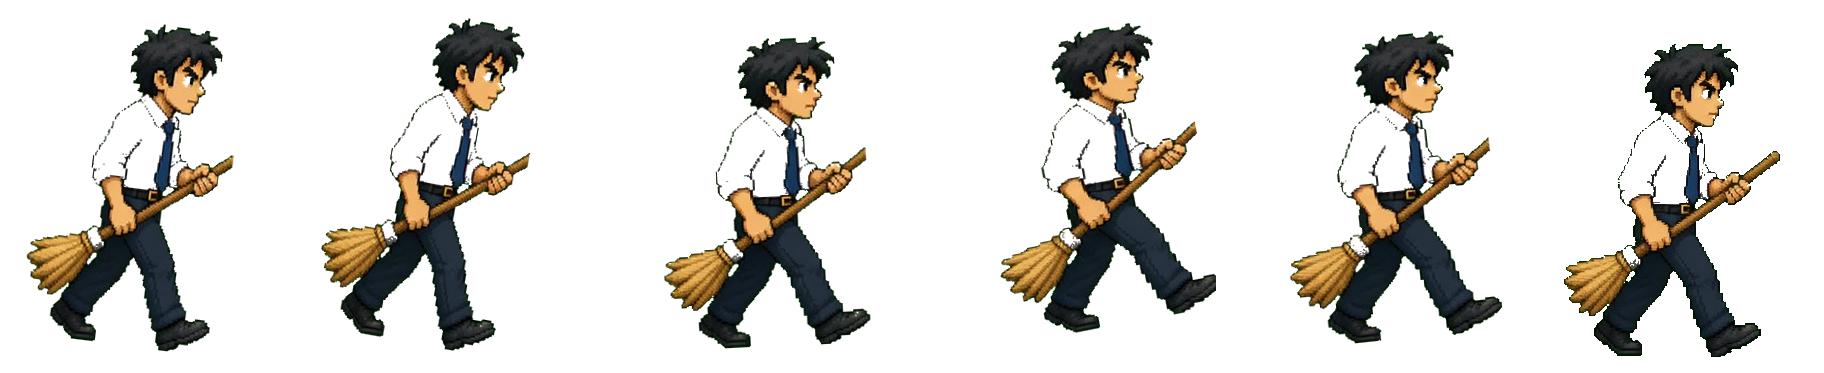
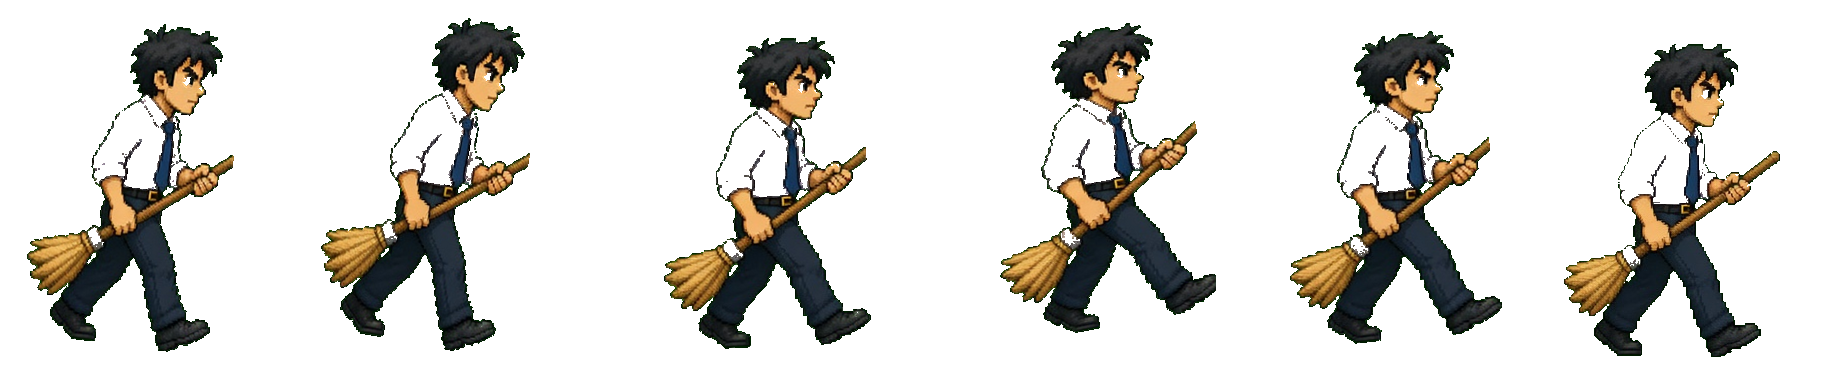
fix: kill halo tint rectangle, remove yellow ring, add spawn jitter, smooth scaling

diff --git a/src/js/render.js b/src/js/render.js
@@ -421,7 +421,8 @@ function drawBase(ctx, x, groundY, civId, team, hpRatio, scale, player) {
 // 单位
 // ==================================================================
 function drawUnit(ctx, u, tShow) {
-  const { cx, cy } = toCanvas(u.x, 0, u.row || 0);
+  // 出生 y 抖动通过 u.y 传入，视觉上给一点上下错开
+  const { cx, cy } = toCanvas(u.x, u.y || 0, u.row || 0);
   const rowMul = scaleForRow(u.row || 0);
   const dir = u.dir;
   const H = heightForUnit(u) * rowMul;
@@ -494,24 +495,18 @@ function drawUnit(ctx, u, tShow) {
     const flipX = dir !== +1;
     if (flipX) ctx.scale(-1, 1);
 
-    // 像素完美关闭平滑
+    // 绘制的是彩绘素材（非 pixel art），开启高质量平滑，避免"像素块粒子"
     const prevSmooth = ctx.imageSmoothingEnabled;
-    ctx.imageSmoothingEnabled = false;
+    const prevQuality = ctx.imageSmoothingQuality;
+    ctx.imageSmoothingEnabled = true;
+    ctx.imageSmoothingQuality = "high";
 
     // 主体
     ctx.drawImage(anim.img,
       frame * anim.fw, 0, anim.fw, anim.fh,   // src rect
       -W / 2, -targetH, W, targetH);          // dst rect
 
-    // 文明染色：source-atop 叠加，只覆盖有像素的地方
-    const tint = CIV_TINT[u.civId];
-    if (tint) {
-      ctx.globalCompositeOperation = "source-atop";
-      ctx.fillStyle = tint;
-      ctx.fillRect(-W / 2, -targetH, W, targetH);
-      ctx.globalCompositeOperation = "source-over";
-    }
-    // 魅惑覆盖
+    // 魅惑覆盖（只在被魅惑时短暂使用）
     if (u.charmedBy) {
       ctx.globalCompositeOperation = "source-atop";
       ctx.fillStyle = "rgba(220,90,220,0.30)";
@@ -520,6 +515,7 @@ function drawUnit(ctx, u, tShow) {
     }
 
     ctx.imageSmoothingEnabled = prevSmooth;
+    ctx.imageSmoothingQuality = prevQuality;
   } else {
     // 兜底：老静态图
     const imgKey = imgForUnit(u);
@@ -807,14 +803,16 @@ function render(ctx, snap, tShow, meSeat) {
   // 全屏效果（大招 / 爆炸 / 火团 / 火花）
   snap.effects.forEach(e => drawEffect(ctx, e, tShow));
 
-  // 我方单位金圈
+  // 我方单位归属提示：脚下一个小圆点（比黄圈低调很多，不遮挡人物）
   if (meSeat != null) {
+    ctx.fillStyle = "rgba(255,222,102,0.85)";
+    ctx.strokeStyle = "rgba(60,40,10,0.9)"; ctx.lineWidth = 1;
     snap.units.forEach(u => {
       if (u.seat === meSeat) {
-        const { cx, cy } = toCanvas(u.x, 0, u.row || 0);
-        const H = heightForUnit(u) * scaleForRow(u.row || 0);
-        ctx.strokeStyle = "#ffde66"; ctx.lineWidth = 2;
-        ctx.beginPath(); ctx.arc(cx, cy - H * 0.5, H * 0.5 + 4, 0, Math.PI * 2); ctx.stroke();
+        const { cx, cy } = toCanvas(u.x, u.y || 0, u.row || 0);
+        ctx.beginPath();
+        ctx.ellipse(cx, cy + 3, 5, 2, 0, 0, Math.PI * 2);
+        ctx.fill(); ctx.stroke();
       }
     });
   }

diff --git a/src/js/sim.js b/src/js/sim.js
@@ -297,8 +297,12 @@ function spawnUnit(state, p, unitId, opt) {
   const civ = CIVS[p.civId];
   const def = civ.units[unitId];
   if (!def) return null;
-  opt = opt || {};
+  opt = opt != null ? opt : {};
   const isHK = p.team === "hk";
+  // 出生位置抖动（确定性 RNG，联机同步安全）：避免所有兵在完全同一点叠罗汉
+  const spawnRng = makeRng((state.nextUnitId | 0) * 2654435761 + p.seat * 977 + (state.seed | 0));
+  const jitterX = (spawnRng() - 0.5) * 26;   // ±13 px
+  const jitterY = (spawnRng() - 0.5) * 22;   // ±11 px
   const u = {
     id: state.nextUnitId++,
     seat: p.seat,
@@ -306,8 +310,8 @@ function spawnUnit(state, p, unitId, opt) {
     civId: p.civId,
     unitId,
     def,
-    x: opt.x != null ? opt.x : (isHK ? HQ_HK_X + 20 : HQ_ZOM_X - 20),
-    y: opt.y != null ? opt.y : (p.row * 60),
+    x: opt.x != null ? opt.x : (isHK ? HQ_HK_X + 20 + jitterX : HQ_ZOM_X - 20 + jitterX),
+    y: opt.y != null ? opt.y : (p.row * 60 + jitterY),
     row: p.row,
     dir: isHK ? +1 : -1,
     hp: def.hp,

diff --git a/src/index.html b/src/index.html
@@ -147,12 +147,12 @@
   <script src="/static/gamehub-matches.js"></script>
 
   <!-- 游戏 -->
-  <script src="js/assets.js?v=8"></script>
+  <script src="js/assets.js?v=9"></script>
   <script src="js/civs.js?v=6"></script>
   <script src="js/audio.js?v=3"></script>
-  <script src="js/sim.js?v=6"></script>
+  <script src="js/sim.js?v=9"></script>
   <script src="js/ai.js?v=3"></script>
-  <script src="js/render.js?v=8"></script>
+  <script src="js/render.js?v=9"></script>
   <script src="js/input.js?v=3"></script>
   <script src="js/net.js?v=3"></script>
   <script src="js/stats.js?v=3"></script>

diff --git a/src/js/assets.js b/src/js/assets.js
@@ -67,7 +67,7 @@ function loadAssets(onProgress) {
       resolve();
     };
     img.onerror = () => { console.warn("[assets] missing anim:", spec.path); tick(spec.key); resolve(); };
-    img.src = spec.path + "?v=3";
+    img.src = spec.path + "?v=4";
   });
 
   return Promise.all([

diff --git a/_amplify_anim.py b/_amplify_anim.py
@@ -1,12 +1,18 @@
-"""Turn the generated pose strips into readable walk and attack cycles.
+"""Turn the clean per-frame strips (from _process_sheets.py) into visible
+walk + attack cycles with hard-edge alpha (no soft halo → no tint rectangle).
 
-The image model kept character identity well, but produced poses that were too
-similar. This pass preserves those painted frames and adds strong key-pose
-changes (weight shift, body lean, squash and lunge) that remain visible after
-the sprites are scaled down in game.
+Pipeline per action:
+  1. Read source strip (must be re-generated fresh via _process_sheets.py).
+  2. Per frame apply pose transform (scale/rotate/translate).
+  3. Snap soft alpha < 40 → 0, then zero RGB where alpha == 0.
+  4. Re-pack into horizontal strip.
+
+IMPORTANT: this script overwrites the walk sheet.
+Always run _process_sheets.py first, then this.
 """
 from pathlib import Path
 
+import numpy as np
 from PIL import Image
 
 
@@ -14,22 +20,13 @@ ROOT = Path(r"e:\Project\WebGame\HKVSZombie")
 ANIM = ROOT / "src" / "img" / "anim"
 
 KEYS = [
-    "hk_melee_cheap",
-    "hk_melee_tank",
-    "hk_melee_fast",
-    "hk_ranged_light",
-    "hk_ranged_aoe",
-    "hk_ranged_heavy",
-    "hk_support",
-    "zom_normal",
-    "zom_hopper",
-    "zom_banshee",
-    "zom_giant",
-    "zom_cata",
-    "zom_toxic",
-    "zom_ghost",
+    "hk_melee_cheap", "hk_melee_tank", "hk_melee_fast",
+    "hk_ranged_light", "hk_ranged_aoe", "hk_ranged_heavy", "hk_support",
+    "zom_normal", "zom_hopper", "zom_banshee", "zom_giant",
+    "zom_cata", "zom_toxic", "zom_ghost",
 ]
 
+# (rotate_deg, offset_x, offset_y, scale_x, scale_y)
 # Six deliberately different contact/down/passing/up poses.
 WALK = [
     (-4.0, -7,  0, 1.05, 0.98),
@@ -63,6 +60,21 @@ RANGED = {
     "zom_banshee", "zom_cata", "zom_toxic", "zom_ghost",
 }
 
+# Alpha threshold: anything below this is snapped to 0 (kills fringe halo).
+ALPHA_MIN = 40
+
+
+def clean_alpha(img):
+    """Snap soft alpha < ALPHA_MIN to 0, zero out RGB there. Returns PIL RGBA."""
+    arr = np.array(img.convert("RGBA"))
+    a = arr[:, :, 3]
+    weak = a < ALPHA_MIN
+    arr[weak] = [0, 0, 0, 0]
+    # Also clamp mid-range alpha up towards fully opaque to preserve edges.
+    mid = (a >= ALPHA_MIN) & (a < 200)
+    arr[mid, 3] = 255
+    return Image.fromarray(arr)
+
 
 def transform(frame, pose, out_w, out_h):
     angle, dx, dy, sx, sy = pose
@@ -70,6 +82,7 @@ def transform(frame, pose, out_w, out_h):
     h = max(1, round(frame.height * sy))
     shaped = frame.resize((w, h), Image.Resampling.BICUBIC)
     shaped = shaped.rotate(angle, Image.Resampling.BICUBIC, expand=True)
+    shaped = clean_alpha(shaped)  # kill halo introduced by bicubic
     canvas = Image.new("RGBA", (out_w, out_h), (0, 0, 0, 0))
     x = (out_w - shaped.width) // 2 + dx
     y = out_h - shaped.height - 18 + dy
@@ -84,14 +97,22 @@ def make_cycle(source, poses):
            for i in range(frames)]
     out_w = fw + 80
     out_h = source.height + 50
-    cooked = [
-        transform(raw[i], poses[i], out_w, out_h)
-        for i in range(frames)
-    ]
+    cooked = [transform(raw[i], poses[i], out_w, out_h) for i in range(frames)]
     strip = Image.new("RGBA", (out_w * frames, out_h), (0, 0, 0, 0))
     for i, frame in enumerate(cooked):
         strip.alpha_composite(frame, (i * out_w, 0))
+    # Final alpha cleanup
+    strip = clean_alpha(strip)
     return strip
+
+
+def report_alpha(img, label):
+    arr = np.array(img)
+    a = arr[:, :, 3]
+    total = a.size
+    weak = int(((a > 0) & (a < ALPHA_MIN)).sum())
+    mid = int(((a >= ALPHA_MIN) & (a < 200)).sum())
+    print(f"    {label}: weak={weak/total*100:.3f}%  mid={mid/total*100:.3f}%")
 
 
 def main():
@@ -103,10 +124,9 @@ def main():
         attack = make_cycle(source, attack_poses)
         walk.save(walk_path, optimize=True)
         attack.save(ANIM / f"{key}_attack.png", optimize=True)
-        print(
-            f"{key}: walk={walk.width // 6}x{walk.height}, "
-            f"attack={attack.width // 6}x{attack.height}"
-        )
+        print(f"{key}: walk={walk.width // 6}x{walk.height}, attack={attack.width // 6}x{attack.height}")
+        report_alpha(walk, "walk ")
+        report_alpha(attack, "attack")
 
 
 if __name__ == "__main__":

diff --git a/_check_alpha.py b/_check_alpha.py
@@ -1,0 +1,18 @@
+"""Diagnose sprite alpha halo issue: check if 'transparent' background pixels
+truly have alpha=0 or have low but nonzero alpha (causing rectangular tint bleed).
+"""
+from pathlib import Path
+import numpy as np
+from PIL import Image
+
+ANIM = Path(r"e:\Project\WebGame\HKVSZombie\src\img\anim")
+
+for path in sorted(ANIM.glob("*.png")):
+    img = np.array(Image.open(path).convert("RGBA"))
+    alpha = img[:, :, 3]
+    total = alpha.size
+    zero = int((alpha == 0).sum())
+    low = int(((alpha > 0) & (alpha < 20)).sum())
+    mid = int(((alpha >= 20) & (alpha < 200)).sum())
+    high = int((alpha >= 200).sum())
+    print(f"{path.name:34s} zero={zero/total*100:5.1f}%  low(1-19)={low/total*100:5.2f}%  mid(20-199)={mid/total*100:5.1f}%  high(>=200)={high/total*100:5.1f}%")
